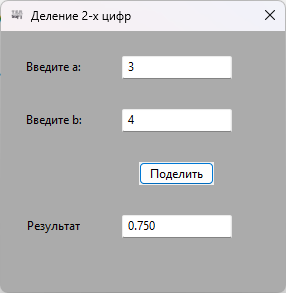
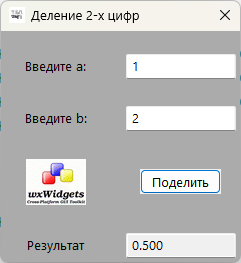
rev. 20250224114243

diff --git a/mainform.cpp b/mainform.cpp
@@ -27,6 +27,7 @@
 
 ////@begin XPM images
 #include "tsnsoft.xpm"
+#include "wxwidgets.xpm"
 ////@end XPM images
 
 
@@ -143,6 +144,9 @@ void MainForm::CreateControls()
     wxTextCtrl* itemTextCtrl3 = new wxTextCtrl( itemFrame1, ID_TEXTCTRL_c, wxEmptyString, wxDefaultPosition, wxDefaultSize, wxTE_READONLY );
     itemGridBagSizer1->Add(itemTextCtrl3, wxGBPosition(7, 6), wxGBSpan(1, 1), wxALIGN_CENTER_HORIZONTAL|wxALIGN_CENTER_VERTICAL|wxALL, 4);
 
+    wxStaticBitmap* itemStaticBitmap1 = new wxStaticBitmap( itemFrame1, wxID_STATIC, itemFrame1->GetBitmapResource(wxT("wxwidgets.xpm")), wxDefaultPosition, wxSize(60, 46), 0 );
+    itemGridBagSizer1->Add(itemStaticBitmap1, wxGBPosition(5, 2), wxGBSpan(1, 1), wxALIGN_CENTER_HORIZONTAL|wxALIGN_CENTER_VERTICAL|wxALL, 5);
+
 ////@end MainForm content construction
 }
 
@@ -164,6 +168,11 @@ wxBitmap MainForm::GetBitmapResource( const wxString& name )
     // Bitmap retrieval
 ////@begin MainForm bitmap retrieval
     wxUnusedVar(name);
+    if (name == wxT("wxwidgets.xpm"))
+    {
+        wxBitmap bitmap(wxwidgets_xpm);
+        return bitmap;
+    }
     return wxNullBitmap;
 ////@end MainForm bitmap retrieval
 }
